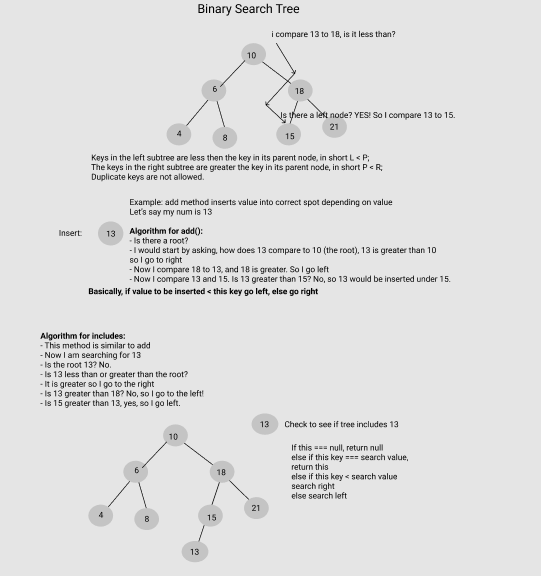
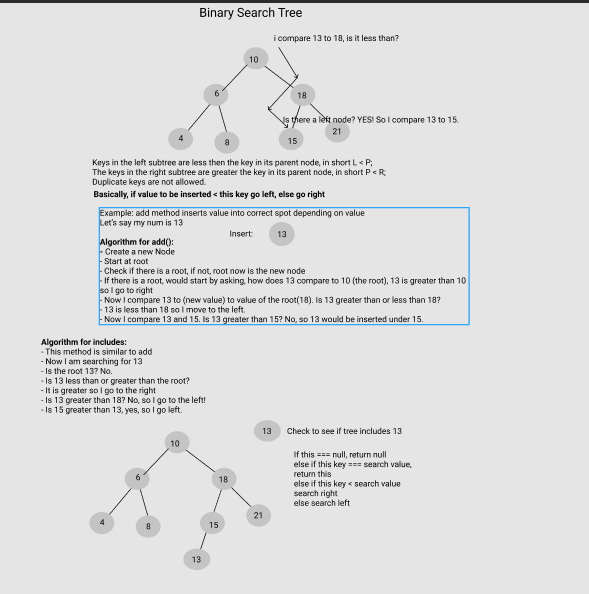
contains and add method find and add to BST

Changed region(s): [[0.0, 0.0, 1.0, 1.0]]

diff --git a/code-challenges/challenges/tree/tree.js b/code-challenges/challenges/tree/tree.js
@@ -1,0 +1,92 @@
+'use strict'
+
+class Node {
+    constructor(value) {
+        this.value = value;
+        this.left = null;
+        this.right = null;
+    }
+}
+
+class BinarySearchTree {
+    constructor() {
+        //empty root
+        this.root = null;
+    }
+    add(value) {
+        let newNode = new Node(value);
+        if(this.root === null) {
+            this.root = newNode;
+            return this;
+        } else {
+            //process involves looping just like in linkedlist
+            //starting in head and updating current as I go
+            let current = this.root;
+            while(true) {
+                //handling duplicates so we don't get an infinite loop
+                if(value === current.value) return undefined;
+                 //check if value is less than or greater than
+                if(value < current.value) {
+                    //if there is no left, insert node
+                    if(current.left === null) {
+                        current.left = newNode;
+                        return this;
+                        //moving to left because value is less than current value
+                        //if there already is a left, then chunk under wile loop will not run
+                    } else {
+                        current = current.left;
+                    }
+                    //Need to check the right side now
+                } else if(value > current.value) {
+                    //if right is null, then I've found my spot
+                    if(current.right === null) {
+                        current.right === newNode;
+                        return this;
+                        //otherwise keep looking
+                    } else {
+                        current = current.right;
+                    }
+                }
+            }
+        }
+    }
+    contains(value) {
+        if(this.root === null) return false;
+        let current = this.root;
+        present = false;
+        //while there is something to loop over and while I haven't found it
+        //as soon as there is no current, loop will stop
+        while(current && !present) {
+                //if value is less than current, move to left
+            if(value < current. value) {
+                current = current.left;
+            } else if(value > current.value) {
+                current = current.right;
+            } else {
+                return true;
+            }
+        }
+        return false;
+    }
+}
+
+
+
+
+
+
+
+
+
+let tree = new BinarySearchTree();
+tree.add(10);
+tree.add(5);
+tree.add(13);
+tree.add(13);
+tree.add(11);
+tree.add(16);
+tree.add(7);
+tree.contains(5);
+tree.contains(2);
+
+//have some nodes that are connected and values to left and right
